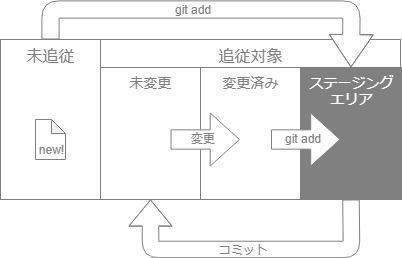
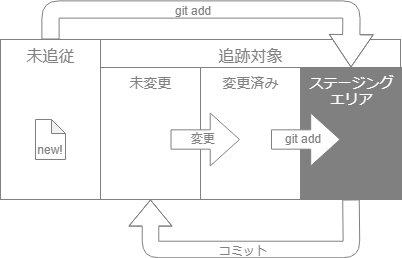
s/追従/追跡/

diff --git a/web/src/assets/text/commit.md b/web/src/assets/text/commit.md
@@ -13,7 +13,7 @@
 
 の3つの状態があります。
 
-どのファイルもステージングエリアに追加することで、コミット(記録)対象になります。ファイルの変更を Git で記録することで、追従対象に置くことができます。
+どのファイルもステージングエリアに追加することで、コミット(記録)対象になります。ファイルの変更を Git で記録することで、追跡対象に置くことができます。
 
 ![commit_flow](@/assets/text/img/git_commit_flow.png)
 
